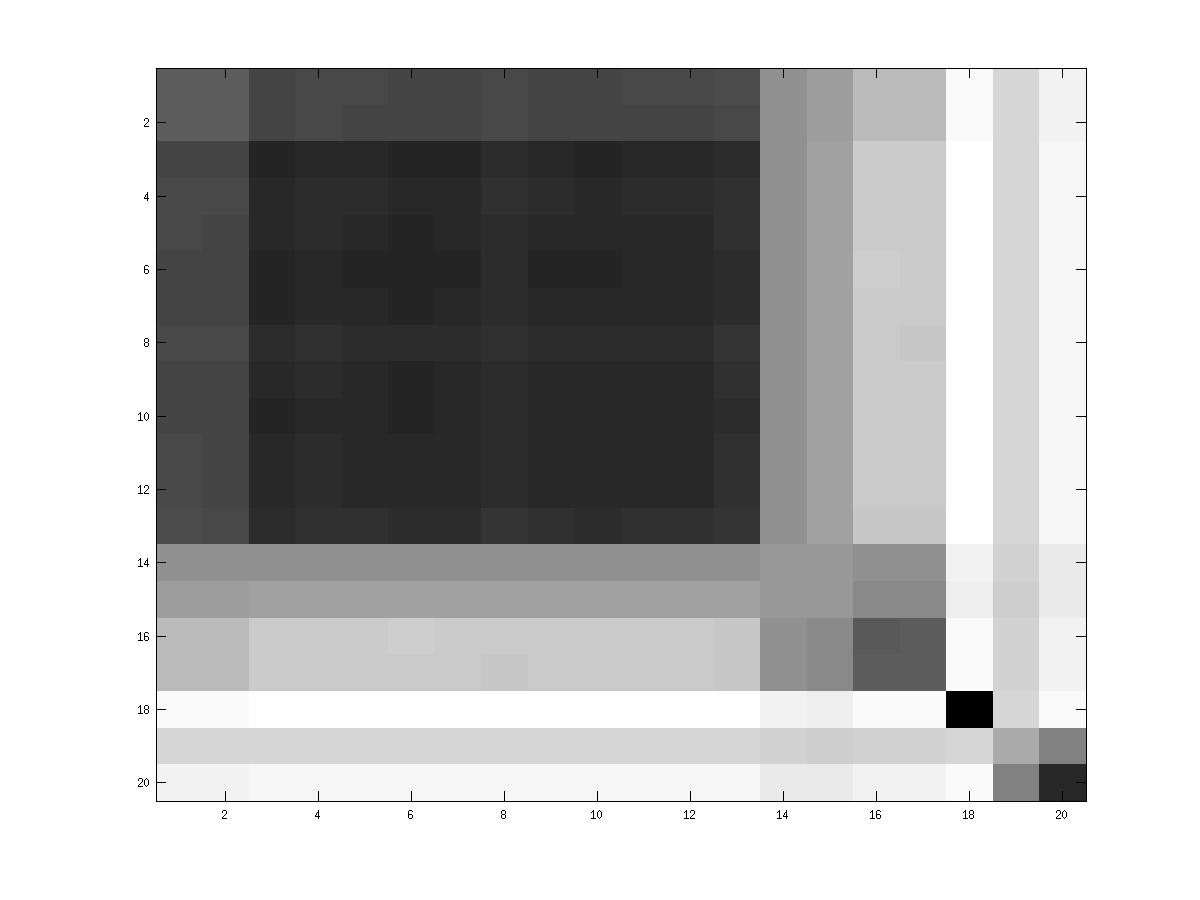
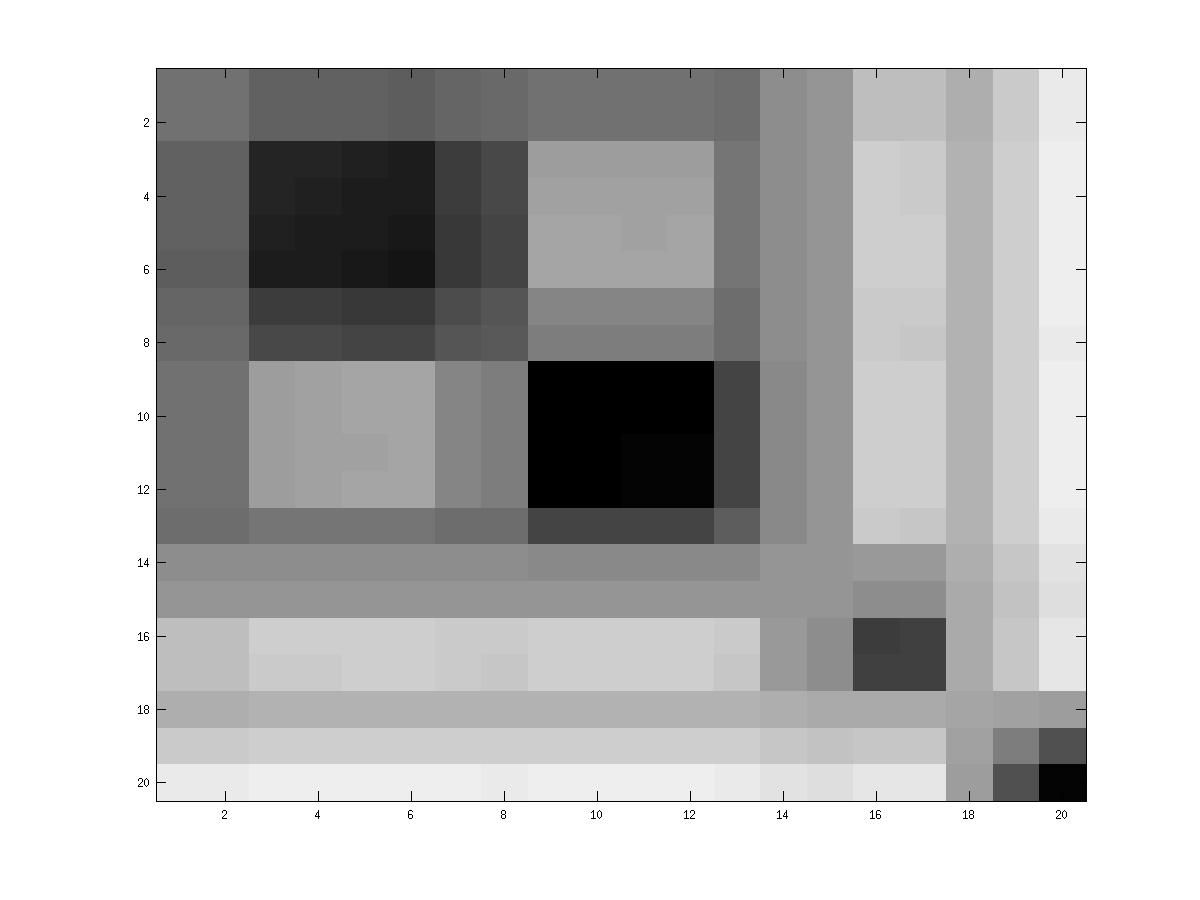
update

Changed region(s): [[0.1233, 0.0622, 0.6475, 0.6222], [0.1233, 0.0622, 0.925, 0.9022]]

diff --git a/demo_iris.m b/demo_iris.m
@@ -4,118 +4,50 @@ clear
 close all
 X = load('Data/iris.csv');
 D = squareform(pdist(X,'chebychev'));
-
-%% iVAT of D^2
-R = ivat(D.^2);
-f = figure('Visible','off');imagesc(rot90(R,2));colormap('gray');
-print(f, '-djpeg', 'Results/Iris/Images/Iris_iVAT.jpg');
-
-%% VAT of D^2
-R = vat(D.^2);
-f = figure('Visible','off');imagesc(rot90(R,2));colormap('gray');
-print(f, '-djpeg', 'Results/Iris/Images/Iris_VAT.jpg');
+n = size(D,1);
 
 %% image of the original D^2
 D01 = D./max(D(:));
 f = figure('Visible','off');imagesc(D.^2);colormap('gray');colorbar;
 print(f, '-djpeg', 'Results/Iris/Images/Iris.jpg');
 
-%% Collect some statistics about D^2
-fh = fopen('Results/Iris/Iris_stats.csv','w');
-fprintf(fh,'Max,%f\n',max(D(:).^2));
-fprintf(fh,'Mean,%f\n',mean(D(:).^2));
-fprintf(fh,'STD,%f\n',std(D(:).^2));
-fprintf(fh,'Variance,%f\n',var(D(:).^2));
-fclose(fh);
-
-fh = fopen('Results/Iris/Iris_results.csv','w');
-fprintf(fh,'Iterations,Beta,BetaCount,Delta,Additive Constant,Kruskal Stress,Pearson Correlation(D;D(U))\n');
-
 %% Different choices of Delta
 % Delta is squared because later it will be added to the squared
 % dissimilarities to generate a squared Euclidean distances
-deltas = {  'RFCM',...
-            'delta=[];',...
+deltas = {  'delta = 1 - eye(n);',...
             'delta = (D.^(1/5)).^2;',...
             'delta = (1-exp(-11.4.*D)).^2;',...
             'delta = (log2(1+D.^(1/4))).^2;',...
             'delta = subdominant_ultrametric(D).^2;'};
 
+delta_names = {'beta-spread','power-fit','exp-fit','log-fit','subdominant-ultrametric'};
+        
 %% NERFCM configurations/options
 options.Fuzzifier        = 2;
 options.Epsilon          = 0.0001;
 options.MaxIter          = 100;
-options.Init             = 'V';
 options.InitType         = 2;
-options.Euclideanize     = 0;
 options.AdditiveConstant = 0;
-options.Delta            = [];
-options.EucType          = 'PSD';
+
+c= 3;
+
+out = irfcm(D.^2,c,options);
+if isfield(out,'Error')
+   fprintf('%s',out.Error); 
+end
 
 %% Test the RFCM, Beta-Spread and Ultrametric
 for i=1:length(deltas)
-    prefix = strrep(deltas{i},'/','div');
-    
-    if i==1
-        out = nerfcm(D.^2,3, options);
-        s = 0;
-        ac = 0;
-        eps1 = 0;
-    else    
-        eval(deltas{i});
-        euc = 1;
-        if i > 2, euc = is_euclidean(delta);end
-            
-        %Is delta Euclidean?
-        if euc
-            options.Delta = delta;
-            options.Euclideanize = 1;
-            out = nerfcm(D.^2,3,options);
-            s = out.Euc.KruskalStress;
-            ac = out.Euc.c;
-            eps1 = out.Euc.eps;
-        else
-            fprintf('Delta is not Euclidean: %s\n',deltas{i});
-            continue
-        end
-        
-        %Collect some statistics about the Euclideanized D
-        fh1 = fopen(sprintf('Results/Iris/Iris_stats_%s.csv',prefix),'w');
-        fprintf(fh1,'Max,%f\n',max(out.Euc.D(:)));
-        fprintf(fh1,'Min,%f\n',min(out.Euc.D(:)));
-        fprintf(fh1,'Mean,%f\n',mean(out.Euc.D(:)));
-        fprintf(fh1,'STD,%f\n',std(out.Euc.D(:)));
-        fprintf(fh1,'Variance,%f\n',var(out.Euc.D(:)));
-        fclose(fh1);
-    end
-    
-    if i > 1
-        %show the iVAT and image of the Euclideanized D
-        R = ivat(out.Euc.D);
-        f = figure('Visible','off');imagesc(rot90(R,2));colormap('gray');colorbar;
-        print(f, '-djpeg', sprintf('Results/Iris/Images/Iris_iVAT_%s.jpg',prefix));    
-        
-        R = vat(out.Euc.D);
-        f = figure('Visible','off');imagesc(rot90(R,2));colormap('gray');colorbar;
-        print(f, '-djpeg', sprintf('Results/Iris/Images/Iris_VAT_%s.jpg',prefix));  
-        
-        %show the Euclideanized matrix
-        f = figure('Visible','off');imagesc(out.Euc.D);colormap('gray');colorbar;
-        print(f, '-djpeg', sprintf('Results/Iris/Images/Iris_D_%s.jpg',prefix));    
-    end
+    eval(deltas{i});
+    options.Delta = delta;
+    out = irfcm(D.^2,c,options);
     
     %Save partition matrix
     U = out.U;
-    dlmwrite(sprintf('Results/Iris/Partitions/U_%s.csv',prefix),U, 'delimiter',',');
+    dlmwrite(sprintf('Results/Iris/Partitions/U_%s(%d).csv',delta_names{i},c),U, 'delimiter',',');
 
     %compute the induced dissimilarity matrix
     uu = 1 - ((U'*U)./max(max(U'*U)));
     f = figure('Visible','off');imagesc(uu);colormap('gray');caxis([0 1]);
-    print(f, '-djpeg', sprintf('Results/Iris/Images/Iris_UU_%s.jpg',prefix));
-
-    corr_coeff = corr(D01(:),uu(:),'type','pearson');
-        
-    fprintf(fh,'%d,%f,%d,%s,%f,%f,%f\n',out.TerminationIter,out.Beta,out.BetaCount,deltas{i},ac,s,corr_coeff);
+    print(f, '-djpeg', sprintf('Results/Iris/Images/UU_%s(%d).jpg',delta_names{i},c));
 end
-
-fclose(fh);

diff --git a/Functions/irfcm.m b/Functions/irfcm.m
@@ -109,12 +109,9 @@ function output=irfcm(R, c, options)
     D = R;n=size(D,1);d = zeros(c,n);
     num_it=0;step_size=epsilon;U=Inf(c,n);
     
-    %check if D is Euclidean
-    euc = is_euclidean(D);
-    
     %If transform option is provided, but delta is not, then do the
     %transformation based on default option, delta = 11' - I
-    if ~euc
+    if isfield(options,'Delta')
         [D, b] = make_euclidean(R, delta, ac, 'Dh = (D + c*delta);');
         eps1 = stress(R, D, 'eps1');
         s1 = stress(R, D, 'stress1');
@@ -139,6 +136,12 @@ function output=irfcm(R, c, options)
         % First, get new initial values for d:
         for i=1:c
             d(i,:)=D*V(i,:)'-V(i,:)*D*V(i,:)'/2;
+        end
+       
+        j = find(d(:) < 0);
+        if ~isempty(j)
+           output.Error = sprintf('RFCM encountered %d negative relational distances in iteration %d. RFCM terminated execuation.\nPlease re-run iRFCM and provide Delta to Euclideanize D before clustering\n\n', length(j), num_it); 
+           return;
         end
         
         %Get new partition matrix U:

diff --git a/demo_mutation.m b/demo_mutation.m
@@ -34,9 +34,6 @@ for i=1:length(deltas)
     eval(deltas{i});
     options.Delta = delta;
     out = irfcm(D.^2,c,options);
-    s = out.Euc.KruskalStress;
-    ac = out.Euc.c;
-    eps1 = out.Euc.eps;
         
     U = out.U;
     dlmwrite(sprintf('Results/Mutation/Partitions/U-%s(%d).csv',delta_names{i},c),U, 'delimiter',',');
